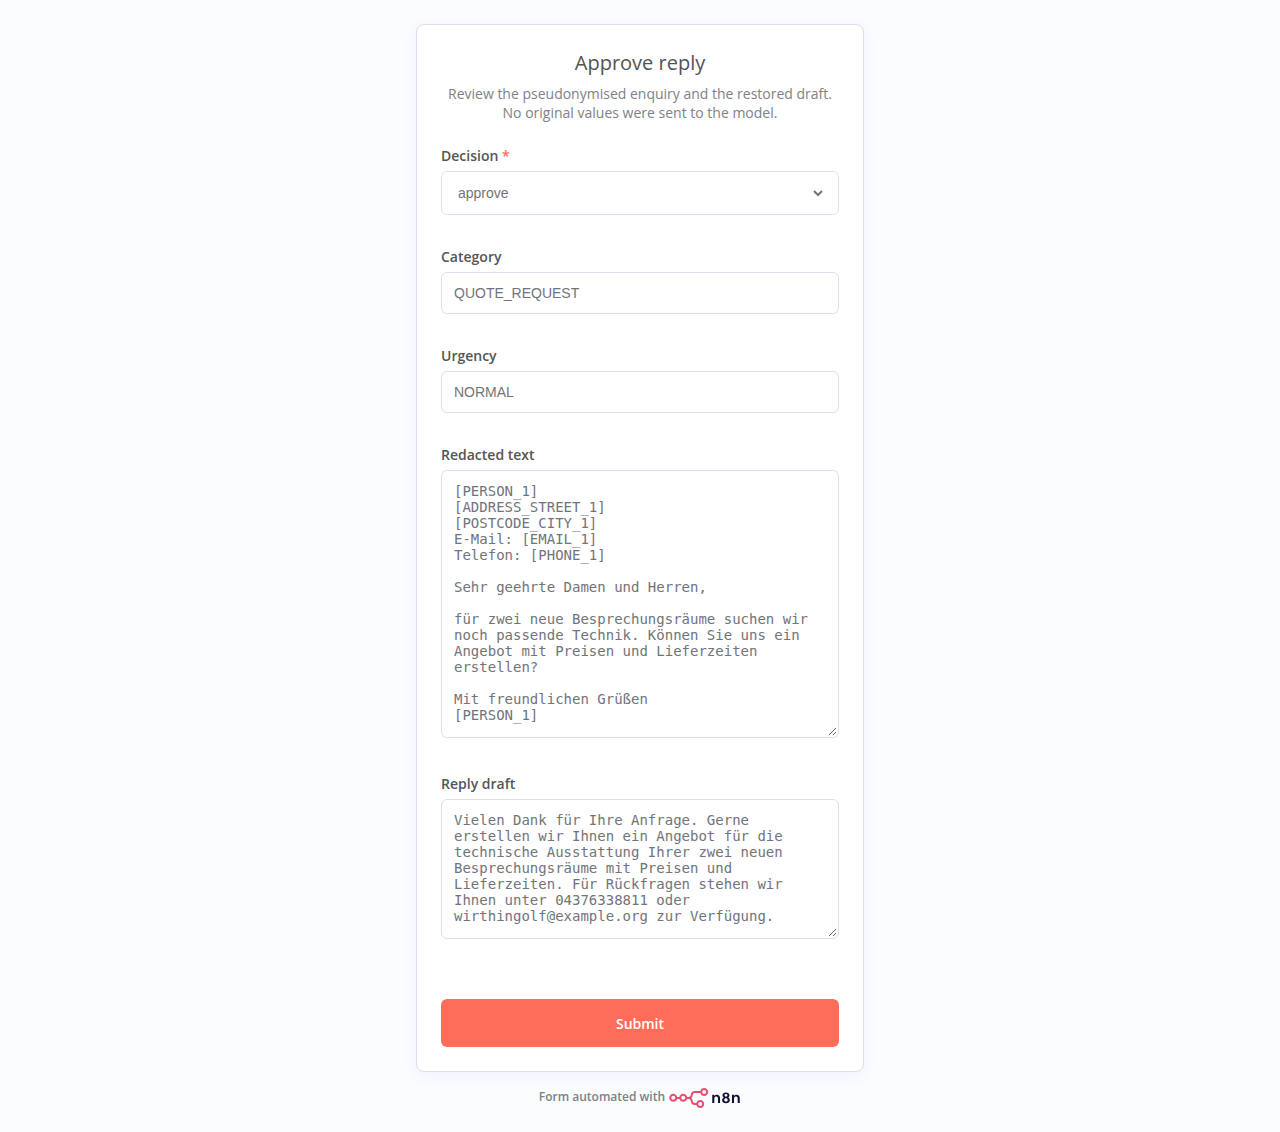
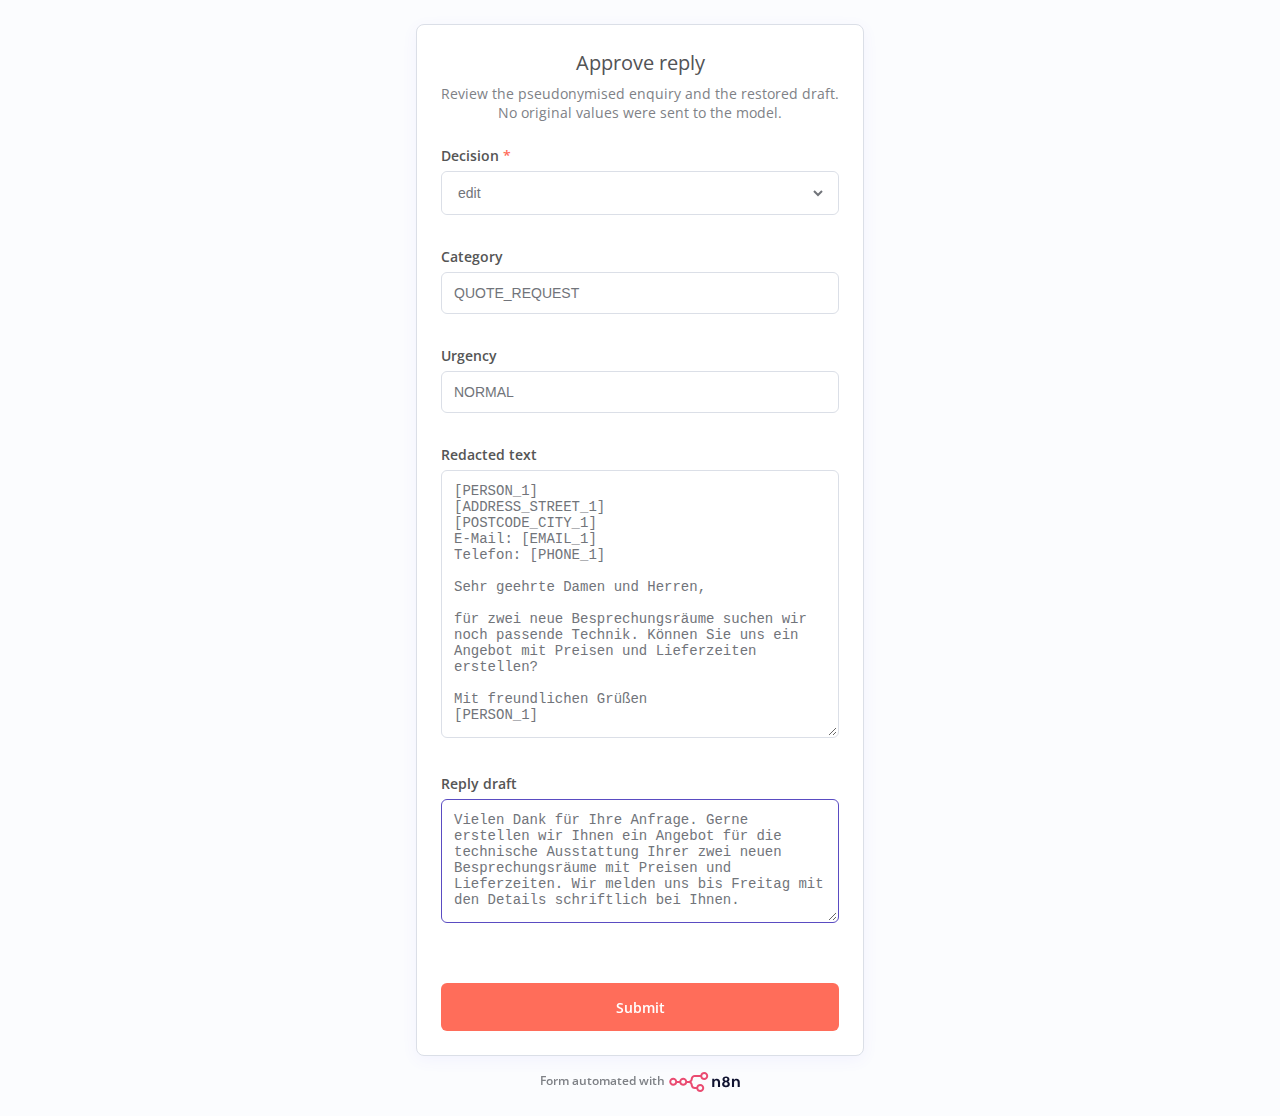
Sync the re-captured n8n shots and explain the review edit decision
The review section now uses the zoom-to-fit canvas of a finished demo run
and adds the executions list, the review form with the edit decision and
corrected draft, and the edited result card, synced from the
ai-privacy-filter page bundle.

EN and DE captions say the reviewer corrected the draft and why the human
step exists. An adoption line at the end of Results and limits links to
the existing contact section on the portfolio home page.

diff --git a/ai-privacy-filter/assets/app.js b/ai-privacy-filter/assets/app.js
@@ -59,8 +59,14 @@
       "workflow.eyebrow": "The review step",
       "workflow.title": "A person approves every reply",
       "workflow.lead": "In n8n, an enquiry is pseudonymised, checked by the guard and drafted. A reviewer sees the pseudonymised text, the category, the urgency and the restored draft, then approves, edits or rejects it.",
-      "workflow.caption": "Workflow canvas: enquiry in, pseudonymise, guard, draft, review, write the result.",
-      "workflow.alt": "n8n workflow canvas with enquiry intake, guard branch, drafting and human review steps",
+      "workflow.caption": "Workflow canvas after one demo run: enquiry in, pseudonymise, guard, draft, review, write the result. Both branches finish green.",
+      "workflow.alt": "n8n workflow canvas after a finished demo execution, with both the review and blocked branches marked successful",
+      "workflow.shot.list.caption": "Executions list: the demo runs finish successfully, including the one the reviewer edited.",
+      "workflow.shot.list.alt": "n8n executions list with the successful synthetic demo runs",
+      "workflow.shot.form.caption": "Review form: the reviewer chose Edit and replaced the draft before submitting. The human step exists because a draft can be wrong or reuse the customer's details in the reply.",
+      "workflow.shot.form.alt": "n8n review form with the edit decision selected and a corrected reply draft filled in",
+      "workflow.shot.result.caption": "Result record: the edit decision and the corrected reply are what gets stored.",
+      "workflow.shot.result.alt": "Result card of the edited reply record, showing the text the model saw and the final corrected reply",
 
       "gallery.eyebrow": "Examples",
       "gallery.title": "Synthetic enquiries",
@@ -148,6 +154,8 @@
       "res.notLegal.body": "This page describes a technical filter. It is not legal advice and does not replace a review of your processing under data-protection law.",
       "res.pseudo.title": "Pseudonymisation keeps the link",
       "res.pseudo.body": "The filter replaces personal data with placeholders. The original values still exist in the local map and can be restored, so the result stays linked to the person.",
+      "res.adoption.lead": "Interested in using this in your organisation?",
+      "res.adoption.link": "Get in touch",
 
       "tech.eyebrow": "Technical details",
       "tech.title": "The parts behind the claims",
@@ -249,8 +257,14 @@
       "workflow.eyebrow": "Der Prüfschritt",
       "workflow.title": "Ein Mensch gibt jeden Entwurf frei",
       "workflow.lead": "In n8n wird eine Anfrage pseudonymisiert, vom Guard geprüft und entworfen. Eine Person sieht den pseudonymisierten Text, Kategorie, Dringlichkeit und den wiederhergestellten Entwurf und gibt ihn frei, bearbeitet oder verwirft ihn.",
-      "workflow.caption": "Workflow-Canvas: Anfrage rein, pseudonymisieren, Guard, Entwurf, Prüfung, Ergebnis schreiben.",
-      "workflow.alt": "n8n-Workflow-Canvas mit Anfrage-Eingang, Guard-Verzweigung, Entwurf und menschlicher Prüfung",
+      "workflow.caption": "Workflow-Canvas nach einem Demo-Lauf: Anfrage rein, pseudonymisieren, Guard, Entwurf, Prüfung, Ergebnis schreiben. Beide Zweige enden erfolgreich.",
+      "workflow.alt": "n8n-Workflow-Canvas nach einer abgeschlossenen Demo-Ausführung; Prüf- und Blockiert-Zweig sind als erfolgreich markiert",
+      "workflow.shot.list.caption": "Ausführungsliste: Die Demo-Läufe laufen erfolgreich durch, auch der Lauf, dessen Antwort die prüfende Person bearbeitet hat.",
+      "workflow.shot.list.alt": "n8n-Ausführungsliste mit den erfolgreichen synthetischen Demo-Läufen",
+      "workflow.shot.form.caption": "Prüfformular: Die prüfende Person hat „Bearbeiten“ gewählt und den Entwurf vor dem Absenden ersetzt. Den menschlichen Schritt gibt es, weil ein Entwurf falsch sein kann oder Kundendaten in die Antwort geraten können.",
+      "workflow.shot.form.alt": "n8n-Prüfformular mit gewählter Entscheidung „Bearbeiten“ und einem korrigierten Antwortentwurf",
+      "workflow.shot.result.caption": "Ergebnisdatensatz: Die Entscheidung „Bearbeiten“ und die korrigierte Antwort werden so gespeichert.",
+      "workflow.shot.result.alt": "Ergebniskarte des bearbeiteten Antwortdatensatzes mit dem Text, den das Modell gesehen hat, und der finalen korrigierten Antwort",
 
       "gallery.eyebrow": "Beispiele",
       "gallery.title": "Synthetische Anfragen",
@@ -338,6 +352,8 @@
       "res.notLegal.body": "Diese Seite beschreibt einen technischen Filter. Sie ist keine Rechtsberatung und ersetzt keine Prüfung Ihrer Verarbeitung nach Datenschutzrecht.",
       "res.pseudo.title": "Pseudonymisierung bleibt zuordenbar",
       "res.pseudo.body": "Der Filter ersetzt personenbezogene Daten durch Platzhalter. Die Originalwerte bleiben in der lokalen Zuordnung und können wiederhergestellt werden; das Ergebnis bleibt also auf die Person beziehbar.",
+      "res.adoption.lead": "Interesse am Einsatz in Ihrem Unternehmen?",
+      "res.adoption.link": "Kontakt aufnehmen",
 
       "tech.eyebrow": "Technische Details",
       "tech.title": "Die Teile hinter den Aussagen",

diff --git a/ai-privacy-filter/index.html b/ai-privacy-filter/index.html
@@ -279,10 +279,24 @@
       <h2 id="workflow-title" data-i18n="workflow.title">A person approves every reply</h2>
       <p class="lead" data-i18n="workflow.lead">In n8n, an enquiry is pseudonymised, checked by the guard and drafted. A reviewer sees the pseudonymised text, the category, the urgency and the restored draft, then approves, edits or rejects it.</p>
     </div>
-    <figure class="shot-card">
-      <img src="assets/n8n-workflow.png" width="1280" height="900" loading="lazy" alt="n8n workflow canvas with enquiry intake, guard branch, drafting and human review steps" data-i18n-alt="workflow.alt">
-      <figcaption data-i18n="workflow.caption">Workflow canvas: enquiry in, pseudonymise, guard, draft, review, write the result.</figcaption>
+    <figure class="shot-card shot-canvas">
+      <img src="assets/screenshots/n8n-execution-success.png" width="2248" height="574" loading="lazy" alt="n8n workflow canvas after a finished demo execution, with both the review and blocked branches marked successful" data-i18n-alt="workflow.alt">
+      <figcaption data-i18n="workflow.caption">Workflow canvas after one demo run: enquiry in, pseudonymise, guard, draft, review, write the result. Both branches finish green.</figcaption>
     </figure>
+    <div class="shot-gallery">
+      <figure class="shot-card shot-wide">
+        <img src="assets/screenshots/n8n-executions-list.png" width="1140" height="348" loading="lazy" alt="n8n executions list with the successful synthetic demo runs" data-i18n-alt="workflow.shot.list.alt">
+        <figcaption data-i18n="workflow.shot.list.caption">Executions list: the demo runs finish successfully, including the one the reviewer edited.</figcaption>
+      </figure>
+      <figure class="shot-card">
+        <img src="assets/screenshots/n8n-review-form.png" width="1280" height="1116" loading="lazy" alt="n8n review form with the edit decision selected and a corrected reply draft filled in" data-i18n-alt="workflow.shot.form.alt">
+        <figcaption data-i18n="workflow.shot.form.caption">Review form: the reviewer chose Edit and replaced the draft before submitting. The human step exists because a draft can be wrong or reuse the customer's details in the reply.</figcaption>
+      </figure>
+      <figure class="shot-card">
+        <img src="assets/screenshots/n8n-result.png" width="1280" height="900" loading="lazy" alt="Result card of the edited reply record, showing the text the model saw and the final corrected reply" data-i18n-alt="workflow.shot.result.alt">
+        <figcaption data-i18n="workflow.shot.result.caption">Result record: the edit decision and the corrected reply are what gets stored.</figcaption>
+      </figure>
+    </div>
   </section>
 
   <!-- ===================== RESULTS ===================== -->
@@ -381,6 +395,8 @@
         <p data-i18n="res.pseudo.body">The filter replaces personal data with placeholders. The original values still exist in the local map and can be restored, so the result stays linked to the person.</p>
       </div>
     </div>
+
+    <p class="adoption"><span data-i18n="res.adoption.lead">Interested in using this in your organisation?</span> <a href="/#contact" data-i18n="res.adoption.link">Get in touch</a>.</p>
   </section>
 
   <!-- ===================== TECHNICAL ===================== -->

diff --git a/ai-privacy-filter/assets/page.css b/ai-privacy-filter/assets/page.css
@@ -661,6 +661,27 @@ h3 { font-size: 17px; line-height: 1.3; font-weight: 620; color: var(--ink); mar
 }
 .shot-card img { display: block; width: 100%; height: auto; aspect-ratio: 1280 / 700; object-fit: cover; object-position: top center; border-bottom: 1px solid var(--hairline); }
 .shot-card figcaption { padding: 12px 18px; font-size: 12px; color: var(--ink-muted); }
+.shot-canvas img { aspect-ratio: 2248 / 574; object-fit: contain; background: var(--bg-inset); }
+.shot-gallery {
+  display: grid; grid-template-columns: repeat(2, minmax(0, 1fr));
+  gap: 14px; margin-top: 14px; align-items: start;
+}
+.shot-gallery .shot-card { display: flex; flex-direction: column; }
+.shot-gallery .shot-wide { grid-column: 1 / -1; }
+.shot-gallery .shot-card img { aspect-ratio: auto; object-fit: contain; background: var(--bg-inset); }
+.shot-gallery .shot-card figcaption { margin-top: auto; }
+@media (max-width: 720px) {
+  .shot-gallery { grid-template-columns: 1fr; }
+  .shot-gallery .shot-wide { grid-column: auto; }
+}
+
+/* ===== adoption line ===== */
+.adoption {
+  margin: 22px 0 0; padding: 16px 18px;
+  background: var(--bg-inset); border: 1px solid var(--hairline);
+  border-radius: var(--r-card); font-size: 14.5px; color: var(--ink-2);
+}
+.adoption a { color: var(--accent-strong); font-weight: 600; }
 
 /* ===== try it ===== */
 .try-card {

diff --git a/ai-privacy-filter/data/page-bundle-MANIFEST.md b/ai-privacy-filter/data/page-bundle-MANIFEST.md
@@ -37,9 +37,9 @@ Files: 37 (this manifest is not listed).
[13 lines of base64/hex data omitted]
